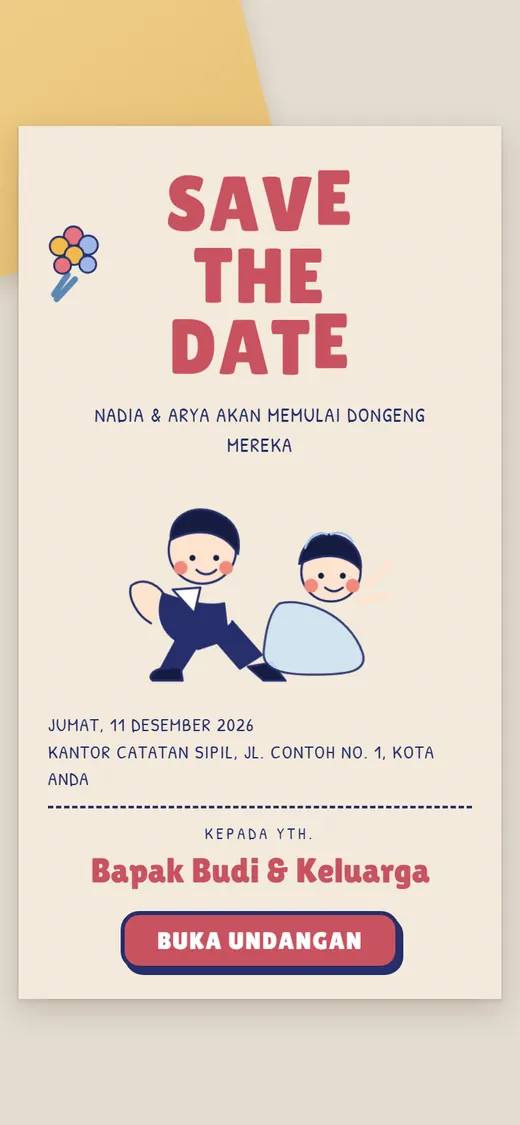
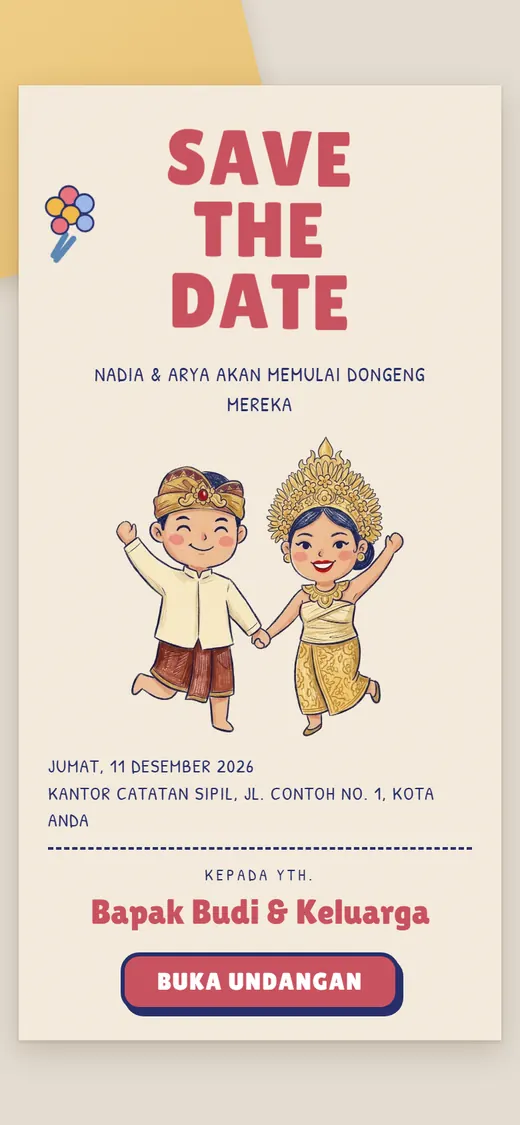
Ilustrasi kustom di 5 tema + label ilustrasi gratis

Changed region(s): [[0.0308, 0.0622, 0.9846, 0.9333], [0.0923, 0.1556, 0.1846, 0.28]]

diff --git a/index.html b/index.html
@@ -58,6 +58,9 @@ section{padding:56px 0;scroll-margin-top:64px}
 .shot img{width:100%;height:100%;object-fit:cover;object-position:top}
 .shot:hover{transform:translateY(-4px);box-shadow:0 2px 4px rgba(43,36,32,.06),0 18px 40px rgba(43,36,32,.16)}
 .noimg{display:flex;height:100%;align-items:center;justify-content:center;font-family:"Cormorant Garamond",serif;font-size:24px}
+.free{position:absolute;top:10px;left:10px;right:10px;text-align:center;background:var(--accent);color:#fff;font-size:11.5px;font-weight:700;letter-spacing:.02em;padding:6px 8px;border-radius:999px;box-shadow:0 4px 12px rgba(138,75,59,.35)}
+@media(max-width:600px){.free{font-size:9.5px;padding:5px 4px;top:8px;left:6px;right:6px;white-space:nowrap;letter-spacing:0}}
+.hnote{display:flex;gap:10px;align-items:flex-start;margin:-6px 0 24px;padding:12px 16px;background:var(--accent-2);border-radius:14px;font-size:14.5px;font-weight:600;color:var(--accent)}
 .peek{position:absolute;left:10px;right:10px;bottom:10px;text-align:center;background:rgba(43,36,32,.86);color:#fff;font-size:13px;font-weight:600;padding:9px;border-radius:999px;opacity:0;transform:translateY(6px);transition:.25s}
 .shot:hover .peek,.shot:focus-visible .peek{opacity:1;transform:none}
 .meta{padding:14px 2px 0;display:flex;flex-direction:column;gap:6px;flex:1}
@@ -106,6 +109,7 @@ footer{padding:0 0 calc(32px + env(safe-area-inset-bottom));color:var(--muted);f
     <h1>Undangan pernikahan digital yang terasa <em>personal</em></h1>
     <p class="lead">Pilih gaya favoritmu, kirim datanya, dan undangan siap dibagikan lewat WhatsApp dalam 1×24 jam. Setiap tamu mendapat link dengan namanya sendiri.</p>
     <div class="acts"><a class="btn" href="#tema">Lihat 24 tema</a><a class="btn ghost" href="https://wa.me/6281326549861?text=Halo%20Titikbersama%2C%20saya%20mau%20pesan%20undangan%20digital." target="_blank" rel="noopener">Pesan via WhatsApp</a></div>
+    <p class="hnote"><span>✦</span>Bonus: ilustrasi kartun kustom yang mirip kalian, GRATIS untuk tema ilustrasi.</p>
     <ul class="stats"><li><b>24 desain</b>siap pakai</li><li><b>1×24 jam</b>pengerjaan</li><li><b>Rp49rb</b>harga mulai</li></ul>
   </div>
   <div class="fan" aria-hidden="true"><div class="ph"><img src="thumbs/demo-sage.webp" alt="" fetchpriority="high"></div><div class="ph"><img src="thumbs/demo-poster.webp" alt="" fetchpriority="high"></div><div class="ph"><img src="thumbs/demo-pixel.webp" alt="" fetchpriority="high"></div></div>
@@ -115,24 +119,26 @@ footer{padding:0 0 calc(32px + env(safe-area-inset-bottom));color:var(--muted);f
   <div class="head"><div><p class="eyebrow">Katalog tema</p><h2>Pilih gaya undanganmu</h2><p class="lead">Ketuk sebuah tema untuk membuka demo lengkapnya, persis seperti yang akan dilihat tamu di HP.</p></div></div>
   <div class="chips" role="toolbar" aria-label="Saring tema">
     <button class="chip" type="button" data-f="" data-d="Semua tema yang tersedia. Ketuk salah satu gaya untuk menyaring." aria-pressed="true">Semua<small>24</small></button>
-    <button class="chip" type="button" data-f="Elegan Klasik" data-d="Lembut dan anggun: warna krem, serif klasik, cocok untuk acara formal." aria-pressed="false">Elegan Klasik<small>7</small></button><button class="chip" type="button" data-f="Minimalis" data-d="Bersih dan sederhana: sedikit warna, banyak ruang kosong, fokus pada tulisan." aria-pressed="false">Minimalis<small>4</small></button><button class="chip" type="button" data-f="Foto Prewedding" data-d="Menonjolkan foto prewedding kalian: foto besar di cover dan galeri." aria-pressed="false">Foto Prewedding<small>14</small></button><button class="chip" type="button" data-f="Ilustrasi Kartun" data-d="Pasangan digambar jadi kartun lucu (bisa dibuat mirip kalian), tanpa perlu foto prewedding." aria-pressed="false">Ilustrasi Kartun<small>7</small></button><button class="chip" type="button" data-f="Unik &amp; Retro" data-d="Konsep tak biasa: koran, poster film, polaroid, kolase zine, sampai game pixel." aria-pressed="false">Unik &amp; Retro<small>7</small></button>
+    <button class="chip" type="button" data-f="Elegan Klasik" data-d="Lembut dan anggun: warna krem, serif klasik, cocok untuk acara formal." aria-pressed="false">Elegan Klasik<small>7</small></button><button class="chip" type="button" data-f="Minimalis" data-d="Bersih dan sederhana: sedikit warna, banyak ruang kosong, fokus pada tulisan." aria-pressed="false">Minimalis<small>4</small></button><button class="chip" type="button" data-f="Foto Prewedding" data-d="Menonjolkan foto prewedding kalian: foto besar di cover dan galeri." aria-pressed="false">Foto Prewedding<small>14</small></button><button class="chip" type="button" data-f="Ilustrasi Kartun" data-d="Pasangan digambar jadi kartun mirip kalian dari foto. Ilustrasi kustom GRATIS di semua paket." aria-pressed="false">Ilustrasi Kartun<small>7</small></button><button class="chip" type="button" data-f="Unik &amp; Retro" data-d="Konsep tak biasa: koran, poster film, polaroid, kolase zine, sampai game pixel." aria-pressed="false">Unik &amp; Retro<small>7</small></button>
   </div>
   <p class="finfo" id="finfo">Semua tema yang tersedia. Ketuk salah satu gaya untuk menyaring.</p>
   <p class="sr" id="count" role="status" aria-live="polite" style="position:absolute;left:-9999px"></p>
   <ul class="grid" id="grid"><li class="card" data-moods="Elegan Klasik|Ilustrasi Kartun">
   <a class="shot" href="demo-sage/index.html?to=Tamu+Undangan" target="_blank" rel="noopener" aria-label="Buka demo Sage Garden">
     <img src="thumbs/demo-sage.webp" alt="" width="260" height="563" fetchpriority="high" decoding="async">
+    <span class="free">✦ Ilustrasi kustom GRATIS</span>
     <span class="peek">Lihat demo →</span>
   </a>
   <div class="meta">
     <h3>Sage Garden</h3>
     <p class="tags"><span>Elegan Klasik</span><span>Ilustrasi Kartun</span></p>
-    <p class="desc">Kertas krem dengan garis hijau sage dan ilustrasi wajah pasangan. Lembut dan klasik.</p>
+    <p class="desc">Ilustrasi garis hijau sage satu tarikan dengan busana pilihan kalian. Lembut dan klasik.</p>
     <div class="acts"><a class="btn sm" href="demo-sage/index.html?to=Tamu+Undangan" target="_blank" rel="noopener">Lihat demo</a><a class="btn sm ghost" href="https://wa.me/6281326549861?text=Halo%20Titikbersama%2C%20saya%20mau%20pesan%20undangan%20digital%20tema%20Sage%20Garden." target="_blank" rel="noopener">Pesan</a></div>
   </div>
 </li><li class="card" data-moods="Elegan Klasik">
   <a class="shot" href="demo-pearl/index.html?to=Tamu+Undangan" target="_blank" rel="noopener" aria-label="Buka demo Pearl Letter">
     <img src="thumbs/demo-pearl.webp" alt="" width="260" height="563" fetchpriority="high" decoding="async">
+    
     <span class="peek">Lihat demo →</span>
   </a>
   <div class="meta">
@@ -144,6 +150,7 @@ footer{padding:0 0 calc(32px + env(safe-area-inset-bottom));color:var(--muted);f
 </li><li class="card" data-moods="Elegan Klasik|Foto Prewedding">
   <a class="shot" href="demo-olive/index.html?to=Tamu+Undangan" target="_blank" rel="noopener" aria-label="Buka demo Olive Love">
     <img src="thumbs/demo-olive.webp" alt="" width="260" height="563" fetchpriority="high" decoding="async">
+    
     <span class="peek">Lihat demo →</span>
   </a>
   <div class="meta">
@@ -155,6 +162,7 @@ footer{padding:0 0 calc(32px + env(safe-area-inset-bottom));color:var(--muted);f
 </li><li class="card" data-moods="Elegan Klasik|Foto Prewedding">
   <a class="shot" href="demo-editorial/index.html?to=Tamu+Undangan" target="_blank" rel="noopener" aria-label="Buka demo Editorial">
     <img src="thumbs/demo-editorial.webp" alt="" width="260" height="563" fetchpriority="high" decoding="async">
+    
     <span class="peek">Lihat demo →</span>
   </a>
   <div class="meta">
@@ -166,6 +174,7 @@ footer{padding:0 0 calc(32px + env(safe-area-inset-bottom));color:var(--muted);f
 </li><li class="card" data-moods="Elegan Klasik|Foto Prewedding">
   <a class="shot" href="demo-arch/index.html?to=Tamu+Undangan" target="_blank" rel="noopener" aria-label="Buka demo Arch Portrait">
     <img src="thumbs/demo-arch.webp" alt="" width="260" height="563" loading="lazy" decoding="async">
+    
     <span class="peek">Lihat demo →</span>
   </a>
   <div class="meta">
@@ -177,6 +186,7 @@ footer{padding:0 0 calc(32px + env(safe-area-inset-bottom));color:var(--muted);f
 </li><li class="card" data-moods="Elegan Klasik|Foto Prewedding">
   <a class="shot" href="demo-arch-fade/index.html?to=Tamu+Undangan" target="_blank" rel="noopener" aria-label="Buka demo Arch Fade">
     <img src="thumbs/demo-arch-fade.webp" alt="" width="260" height="563" loading="lazy" decoding="async">
+    
     <span class="peek">Lihat demo →</span>
   </a>
   <div class="meta">
@@ -188,6 +198,7 @@ footer{padding:0 0 calc(32px + env(safe-area-inset-bottom));color:var(--muted);f
 </li><li class="card" data-moods="Minimalis|Elegan Klasik">
   <a class="shot" href="demo-envelope/index.html?to=Tamu+Undangan" target="_blank" rel="noopener" aria-label="Buka demo Ribbon Envelope">
     <img src="thumbs/demo-envelope.webp" alt="" width="260" height="563" loading="lazy" decoding="async">
+    
     <span class="peek">Lihat demo →</span>
   </a>
   <div class="meta">
@@ -199,6 +210,7 @@ footer{padding:0 0 calc(32px + env(safe-area-inset-bottom));color:var(--muted);f
 </li><li class="card" data-moods="Minimalis|Ilustrasi Kartun">
   <a class="shot" href="demo-line/index.html?to=Tamu+Undangan" target="_blank" rel="noopener" aria-label="Buka demo Blush Line">
     <img src="thumbs/demo-line.webp" alt="" width="260" height="563" loading="lazy" decoding="async">
+    <span class="free">✦ Ilustrasi kustom GRATIS</span>
     <span class="peek">Lihat demo →</span>
   </a>
   <div class="meta">
@@ -210,6 +222,7 @@ footer{padding:0 0 calc(32px + env(safe-area-inset-bottom));color:var(--muted);f
 </li><li class="card" data-moods="Minimalis">
   <a class="shot" href="demo-mono/index.html?to=Tamu+Undangan" target="_blank" rel="noopener" aria-label="Buka demo Cozy Blue">
     <img src="thumbs/demo-mono.webp" alt="" width="260" height="563" loading="lazy" decoding="async">
+    
     <span class="peek">Lihat demo →</span>
   </a>
   <div class="meta">
@@ -221,6 +234,7 @@ footer{padding:0 0 calc(32px + env(safe-area-inset-bottom));color:var(--muted);f
 </li><li class="card" data-moods="Minimalis|Ilustrasi Kartun">
   <a class="shot" href="demo-wavy/index.html?to=Tamu+Undangan" target="_blank" rel="noopener" aria-label="Buka demo Wavy Ink">
     <img src="thumbs/demo-wavy.webp" alt="" width="260" height="563" loading="lazy" decoding="async">
+    <span class="free">✦ Ilustrasi kustom GRATIS</span>
     <span class="peek">Lihat demo →</span>
   </a>
   <div class="meta">
@@ -232,6 +246,7 @@ footer{padding:0 0 calc(32px + env(safe-area-inset-bottom));color:var(--muted);f
 </li><li class="card" data-moods="Foto Prewedding">
   <a class="shot" href="demo-numeral/index.html?to=Tamu+Undangan" target="_blank" rel="noopener" aria-label="Buka demo Big Date">
     <img src="thumbs/demo-numeral.webp" alt="" width="260" height="563" loading="lazy" decoding="async">
+    
     <span class="peek">Lihat demo →</span>
   </a>
   <div class="meta">
@@ -243,6 +258,7 @@ footer{padding:0 0 calc(32px + env(safe-area-inset-bottom));color:var(--muted);f
 </li><li class="card" data-moods="Foto Prewedding">
   <a class="shot" href="demo-numeral-dark/index.html?to=Tamu+Undangan" target="_blank" rel="noopener" aria-label="Buka demo Big Date Noir">
     <img src="thumbs/demo-numeral-dark.webp" alt="" width="260" height="563" loading="lazy" decoding="async">
+    
     <span class="peek">Lihat demo →</span>
   </a>
   <div class="meta">
@@ -254,6 +270,7 @@ footer{padding:0 0 calc(32px + env(safe-area-inset-bottom));color:var(--muted);f
 </li><li class="card" data-moods="Foto Prewedding|Unik &amp; Retro">
   <a class="shot" href="demo-poster/index.html?to=Tamu+Undangan" target="_blank" rel="noopener" aria-label="Buka demo Movie Poster">
     <img src="thumbs/demo-poster.webp" alt="" width="260" height="563" loading="lazy" decoding="async">
+    
     <span class="peek">Lihat demo →</span>
   </a>
   <div class="meta">
@@ -265,6 +282,7 @@ footer{padding:0 0 calc(32px + env(safe-area-inset-bottom));color:var(--muted);f
 </li><li class="card" data-moods="Foto Prewedding|Unik &amp; Retro">
   <a class="shot" href="demo-polaroid/index.html?to=Tamu+Undangan" target="_blank" rel="noopener" aria-label="Buka demo Red Polaroid">
     <img src="thumbs/demo-polaroid.webp" alt="" width="260" height="563" loading="lazy" decoding="async">
+    
     <span class="peek">Lihat demo →</span>
   </a>
   <div class="meta">
@@ -276,6 +294,7 @@ footer{padding:0 0 calc(32px + env(safe-area-inset-bottom));color:var(--muted);f
 </li><li class="card" data-moods="Foto Prewedding">
   <a class="shot" href="demo-photostrip/index.html?to=Tamu+Undangan" target="_blank" rel="noopener" aria-label="Buka demo Photo Booth">
     <img src="thumbs/demo-photostrip.webp" alt="" width="260" height="563" loading="lazy" decoding="async">
+    
     <span class="peek">Lihat demo →</span>
   </a>
   <div class="meta">
@@ -287,6 +306,7 @@ footer{padding:0 0 calc(32px + env(safe-area-inset-bottom));color:var(--muted);f
 </li><li class="card" data-moods="Foto Prewedding">
   <a class="shot" href="demo-film/index.html?to=Tamu+Undangan" target="_blank" rel="noopener" aria-label="Buka demo Film Strip">
     <img src="thumbs/demo-film.webp" alt="" width="260" height="563" loading="lazy" decoding="async">
+    
     <span class="peek">Lihat demo →</span>
   </a>
   <div class="meta">
@@ -298,6 +318,7 @@ footer{padding:0 0 calc(32px + env(safe-area-inset-bottom));color:var(--muted);f
 </li><li class="card" data-moods="Foto Prewedding">
   <a class="shot" href="demo-torn/index.html?to=Tamu+Undangan" target="_blank" rel="noopener" aria-label="Buka demo Torn Paper">
     <img src="thumbs/demo-torn.webp" alt="" width="260" height="563" loading="lazy" decoding="async">
+    
     <span class="peek">Lihat demo →</span>
   </a>
   <div class="meta">
@@ -309,6 +330,7 @@ footer{padding:0 0 calc(32px + env(safe-area-inset-bottom));color:var(--muted);f
 </li><li class="card" data-moods="Foto Prewedding">
   <a class="shot" href="demo-torn-marun/index.html?to=Tamu+Undangan" target="_blank" rel="noopener" aria-label="Buka demo Torn Paper Maroon">
     <img src="thumbs/demo-torn-marun.webp" alt="" width="260" height="563" loading="lazy" decoding="async">
+    
     <span class="peek">Lihat demo →</span>
   </a>
   <div class="meta">
@@ -320,6 +342,7 @@ footer{padding:0 0 calc(32px + env(safe-area-inset-bottom));color:var(--muted);f
 </li><li class="card" data-moods="Unik &amp; Retro|Foto Prewedding">
   <a class="shot" href="demo-news/index.html?to=Tamu+Undangan" target="_blank" rel="noopener" aria-label="Buka demo Wedding Post">
     <img src="thumbs/demo-news.webp" alt="" width="260" height="563" loading="lazy" decoding="async">
+    
     <span class="peek">Lihat demo →</span>
   </a>
   <div class="meta">
@@ -331,6 +354,7 @@ footer{padding:0 0 calc(32px + env(safe-area-inset-bottom));color:var(--muted);f
 </li><li class="card" data-moods="Unik &amp; Retro|Foto Prewedding">
   <a class="shot" href="demo-collage/index.html?to=Tamu+Undangan" target="_blank" rel="noopener" aria-label="Buka demo Zine Collage">
     <img src="thumbs/demo-collage.webp" alt="" width="260" height="563" loading="lazy" decoding="async">
+    
     <span class="peek">Lihat demo →</span>
   </a>
   <div class="meta">
@@ -342,6 +366,7 @@ footer{padding:0 0 calc(32px + env(safe-area-inset-bottom));color:var(--muted);f
 </li><li class="card" data-moods="Unik &amp; Retro|Ilustrasi Kartun">
   <a class="shot" href="demo-doodle/index.html?to=Tamu+Undangan" target="_blank" rel="noopener" aria-label="Buka demo Doodle Pop">
     <img src="thumbs/demo-doodle.webp" alt="" width="260" height="563" loading="lazy" decoding="async">
+    
     <span class="peek">Lihat demo →</span>
   </a>
   <div class="meta">
@@ -353,6 +378,7 @@ footer{padding:0 0 calc(32px + env(safe-area-inset-bottom));color:var(--muted);f
 </li><li class="card" data-moods="Ilustrasi Kartun">
   <a class="shot" href="demo-tulip/index.html?to=Tamu+Undangan" target="_blank" rel="noopener" aria-label="Buka demo Tulip Card">
     <img src="thumbs/demo-tulip.webp" alt="" width="260" height="563" loading="lazy" decoding="async">
+    <span class="free">✦ Ilustrasi kustom GRATIS</span>
     <span class="peek">Lihat demo →</span>
   </a>
   <div class="meta">
@@ -364,17 +390,19 @@ footer{padding:0 0 calc(32px + env(safe-area-inset-bottom));color:var(--muted);f
 </li><li class="card" data-moods="Ilustrasi Kartun|Unik &amp; Retro">
   <a class="shot" href="demo-cartoon/index.html?to=Tamu+Undangan" target="_blank" rel="noopener" aria-label="Buka demo Kraft Cartoon">
     <img src="thumbs/demo-cartoon.webp" alt="" width="260" height="563" loading="lazy" decoding="async">
+    <span class="free">✦ Ilustrasi kustom GRATIS</span>
     <span class="peek">Lihat demo →</span>
   </a>
   <div class="meta">
     <h3>Kraft Cartoon</h3>
     <p class="tags"><span>Ilustrasi Kartun</span><span>Unik &amp; Retro</span></p>
-    <p class="desc">Kartu kraft dan amplop dengan ilustrasi kartun pasangan. Bisa dibuat mirip kalian.</p>
+    <p class="desc">Kartu kraft dan amplop dengan ilustrasi kartun pasangan pensil warna yang dibuat mirip kalian.</p>
     <div class="acts"><a class="btn sm" href="demo-cartoon/index.html?to=Tamu+Undangan" target="_blank" rel="noopener">Lihat demo</a><a class="btn sm ghost" href="https://wa.me/6281326549861?text=Halo%20Titikbersama%2C%20saya%20mau%20pesan%20undangan%20digital%20tema%20Kraft%20Cartoon." target="_blank" rel="noopener">Pesan</a></div>
   </div>
 </li><li class="card" data-moods="Unik &amp; Retro|Ilustrasi Kartun">
   <a class="shot" href="demo-pixel/index.html?to=Tamu+Undangan" target="_blank" rel="noopener" aria-label="Buka demo Pixel Quest">
     <img src="thumbs/demo-pixel.webp" alt="" width="260" height="563" loading="lazy" decoding="async">
+    <span class="free">✦ Ilustrasi kustom GRATIS</span>
     <span class="peek">Lihat demo →</span>
   </a>
   <div class="meta">
@@ -390,11 +418,11 @@ footer{padding:0 0 calc(32px + env(safe-area-inset-bottom));color:var(--muted);f
   <p class="eyebrow">Paket & harga</p><h2>Sesuaikan dengan kebutuhanmu</h2><p class="lead">Semua tema bisa dipakai di paket mana pun. Harga sekali bayar, tanpa biaya bulanan.</p>
   <div class="pk"><div class="pkg">
     <h3>Basic</h3><p class="price">Rp49.000</p><p class="note">Inti undangan, siap 1×24 jam</p>
-    <ul><li>1 tema pilihan</li><li>Nama tamu personal</li><li>Hitung mundur &amp; simpan ke kalender</li><li>Tombol Google Maps</li><li>Galeri 4 foto</li><li>RSVP via WhatsApp</li><li>Aktif 3 bulan · 1× revisi</li></ul><a class="btn ghost" href="https://wa.me/6281326549861?text=Halo%20Titikbersama%2C%20saya%20mau%20pesan%20undangan%20digital%20paket%20Basic." target="_blank" rel="noopener">Pilih Basic</a></div><div class="pkg best"><span class="badge">Paling laris</span>
+    <ul><li>1 tema pilihan</li><li>Ilustrasi kustom mirip kalian (tema ilustrasi), gratis</li><li>Nama tamu personal</li><li>Hitung mundur &amp; simpan ke kalender</li><li>Tombol Google Maps</li><li>Galeri 4 foto</li><li>RSVP via WhatsApp</li><li>Aktif 3 bulan · 1× revisi</li></ul><a class="btn ghost" href="https://wa.me/6281326549861?text=Halo%20Titikbersama%2C%20saya%20mau%20pesan%20undangan%20digital%20paket%20Basic." target="_blank" rel="noopener">Pilih Basic</a></div><div class="pkg best"><span class="badge">Paling laris</span>
     <h3>Standar</h3><p class="price">Rp99.000</p><p class="note">Paling banyak dipilih</p>
-    <ul><li>Semua isi Basic</li><li>Musik latar &amp; preview peta</li><li>Galeri 12 foto &amp; kisah cinta</li><li>Amplop digital (rekening/e-wallet)</li><li>Ucapan &amp; doa tampil di undangan</li><li>Rekap RSVP di Google Sheet</li><li>Aktif 6 bulan · 2× revisi</li></ul><a class="btn" href="https://wa.me/6281326549861?text=Halo%20Titikbersama%2C%20saya%20mau%20pesan%20undangan%20digital%20paket%20Standar." target="_blank" rel="noopener">Pilih Standar</a></div><div class="pkg">
+    <ul><li>Semua isi Basic</li><li>Ilustrasi kustom mirip kalian (tema ilustrasi), gratis</li><li>Musik latar &amp; preview peta</li><li>Galeri 12 foto &amp; kisah cinta</li><li>Amplop digital (rekening/e-wallet)</li><li>Ucapan &amp; doa tampil di undangan</li><li>Rekap RSVP di Google Sheet</li><li>Aktif 6 bulan · 2× revisi</li></ul><a class="btn" href="https://wa.me/6281326549861?text=Halo%20Titikbersama%2C%20saya%20mau%20pesan%20undangan%20digital%20paket%20Standar." target="_blank" rel="noopener">Pilih Standar</a></div><div class="pkg">
     <h3>Premium</h3><p class="price">Rp199.000</p><p class="note">Lengkap untuk hari besar</p>
-    <ul><li>Semua isi Standar</li><li>Galeri 30 foto &amp; video prewedding</li><li>Live streaming &amp; QR check-in tamu</li><li>1 lagu custom</li><li>Domain sendiri (.my.id, 1 tahun)</li><li>Aktif 12 bulan · 5× revisi</li><li>Pengerjaan prioritas ±12 jam</li></ul><a class="btn ghost" href="https://wa.me/6281326549861?text=Halo%20Titikbersama%2C%20saya%20mau%20pesan%20undangan%20digital%20paket%20Premium." target="_blank" rel="noopener">Pilih Premium</a></div></div>
+    <ul><li>Semua isi Standar</li><li>Ilustrasi kustom mirip kalian (tema ilustrasi), gratis</li><li>Galeri 30 foto &amp; video prewedding</li><li>Live streaming &amp; QR check-in tamu</li><li>1 lagu custom</li><li>Domain sendiri (.my.id, 1 tahun)</li><li>Aktif 12 bulan · 5× revisi</li><li>Pengerjaan prioritas ±12 jam</li></ul><a class="btn ghost" href="https://wa.me/6281326549861?text=Halo%20Titikbersama%2C%20saya%20mau%20pesan%20undangan%20digital%20paket%20Premium." target="_blank" rel="noopener">Pilih Premium</a></div></div>
   <p class="small">Tersedia add-on: musik, preview peta, tambah foto, QR check-in, domain .com, pengerjaan express, dan lainnya.</p>
 </div></section>
 
@@ -405,7 +433,7 @@ footer{padding:0 0 calc(32px + env(safe-area-inset-bottom));color:var(--muted);f
 
 <section id="faq"><div class="wrap">
   <p class="eyebrow">Tanya jawab</p><h2>Yang sering ditanyakan</h2>
-  <div class="faq"><details><summary>Berapa lama pengerjaannya?</summary><p>1×24 jam setelah data lengkap kami terima. Paket Premium diprioritaskan (±12 jam).</p></details><details><summary>Apakah nama tamu bisa berbeda-beda?</summary><p>Bisa. Setiap tamu mendapat link sendiri, dan namanya tampil di cover undangan.</p></details><details><summary>Bisa ganti warna atau tema?</summary><p>Warna bisa disesuaikan (Premium, atau add-on untuk paket lain). Ganti tema setelah jadi dihitung pesanan baru.</p></details><details><summary>Musiknya bisa lagu pilihan sendiri?</summary><p>Bisa. Premium gratis 1 lagu, paket lain dengan add-on. Kami sarankan lagu bebas royalti agar link tidak diblokir.</p></details><details><summary>Foto di demo ini foto siapa?</summary><p>Foto contoh untuk memperlihatkan tampilan. Undanganmu memakai foto kalian sendiri.</p></details></div>
+  <div class="faq"><details><summary>Berapa lama pengerjaannya?</summary><p>1×24 jam setelah data lengkap kami terima. Paket Premium diprioritaskan (±12 jam).</p></details><details><summary>Ilustrasi kartunnya bayar lagi?</summary><p>Tidak, gratis di semua paket. Untuk tema ilustrasi (Sage Garden, Tulip Card, Blush Line, Wavy Ink, Kraft Cartoon, Pixel Quest) kami gambar ulang kalian dari foto, lengkap dengan busana adat atau gaun pilihan. Cukup kirim 1 foto berdua dan foto close-up wajah.</p></details><details><summary>Apakah nama tamu bisa berbeda-beda?</summary><p>Bisa. Setiap tamu mendapat link sendiri, dan namanya tampil di cover undangan.</p></details><details><summary>Bisa ganti warna atau tema?</summary><p>Warna bisa disesuaikan (Premium, atau add-on untuk paket lain). Ganti tema setelah jadi dihitung pesanan baru.</p></details><details><summary>Musiknya bisa lagu pilihan sendiri?</summary><p>Bisa. Premium gratis 1 lagu, paket lain dengan add-on. Kami sarankan lagu bebas royalti agar link tidak diblokir.</p></details><details><summary>Foto di demo ini foto siapa?</summary><p>Foto contoh untuk memperlihatkan tampilan. Undanganmu memakai foto kalian sendiri.</p></details></div>
 </div></section>
 
 <div class="wrap"><div class="end"><h2>Sudah menemukan yang cocok?</h2><p>Kirim nama tema pilihanmu, kami bantu sampai undangan siap dibagikan.</p><a class="btn" href="https://wa.me/6281326549861?text=Halo%20Titikbersama%2C%20saya%20mau%20pesan%20undangan%20digital." target="_blank" rel="noopener">Pesan via WhatsApp</a></div></div>

diff --git a/demo-tulip/index.html b/demo-tulip/index.html
@@ -125,6 +125,7 @@ a:focus-visible,button:focus-visible,input:focus-visible,select:focus-visible,te
 /* ✏ CONFIG KLIEN — ubah data di sini saja */
 const CONFIG = {
   theme: "tulip",           // sage | mono | doodle | tulip | line | wavy
+  illustrationURL: "foto/ilustrasi.webp",   // ilustrasi kustom Nano Banana (docs/PROMPT-NANO-BANANA-2D.md)
   package: "premium",       // basic | standar | premium
   demo: true,               // hapus baris ini untuk klien asli (galeri kosong tidak ditampilkan)
   siteURL: "https://nadia-arya.undanganku.id",

diff --git a/demo-wavy/index.html b/demo-wavy/index.html
@@ -92,6 +92,7 @@ a:focus-visible,button:focus-visible,input:focus-visible,select:focus-visible,te
 /* ✏ CONFIG KLIEN — ubah data di sini saja */
 const CONFIG = {
   theme: "wavy",             // sage | mono | doodle | tulip | line | wavy
+  illustrationURL: "foto/ilustrasi.webp",   // ilustrasi kustom Nano Banana (docs/PROMPT-NANO-BANANA-2D.md)
   package: "premium",       // basic | standar | premium
   demo: true,               // hapus baris ini untuk klien asli (galeri kosong tidak ditampilkan)
   siteURL: "https://nadia-arya.undanganku.id",

diff --git a/demo-sage/index.html b/demo-sage/index.html
@@ -115,6 +115,7 @@ a:focus-visible,button:focus-visible,input:focus-visible,select:focus-visible,te
 /* ✏ CONFIG KLIEN — ubah data di sini saja */
 const CONFIG = {
   theme: "sage",            // sage | mono | doodle
+  illustrationURL: "foto/ilustrasi.webp",   // ilustrasi kustom Nano Banana (docs/PROMPT-NANO-BANANA-2D.md)
   package: "premium",       // basic | standar | premium
   demo: true,               // hapus baris ini untuk klien asli (galeri kosong tidak ditampilkan)
   siteURL: "https://nadia-arya.undanganku.id",

diff --git a/demo-line/index.html b/demo-line/index.html
@@ -89,6 +89,7 @@ a:focus-visible,button:focus-visible,input:focus-visible,select:focus-visible,te
 /* ✏ CONFIG KLIEN — ubah data di sini saja */
 const CONFIG = {
   theme: "line",             // sage | mono | doodle | tulip | line | wavy
+  illustrationURL: "foto/ilustrasi.webp",   // ilustrasi kustom Nano Banana (docs/PROMPT-NANO-BANANA-2D.md)
   arcText: "Dua Ikan Lebih Sedikit di Laut",   // teks melengkung di atas ilustrasi (tema line)
   rsvpTitle: "Party On!",
   package: "premium",       // basic | standar | premium

diff --git a/demo-cartoon/index.html b/demo-cartoon/index.html
@@ -71,6 +71,7 @@ label{font-family:'Lilita One';font-weight:400;font-size:16px;letter-spacing:.04
 /* ✏ CONFIG KLIEN — ubah data di sini saja */
 const CONFIG = {
   theme: "cartoon",
+  illustrationURL: "foto/ilustrasi.webp",   // ilustrasi kustom Nano Banana (docs/PROMPT-NANO-BANANA-2D.md)
   colorMain: "#c9525f",
   colorInk: "#262f6b",
   colorBg: "#f6eddf",
